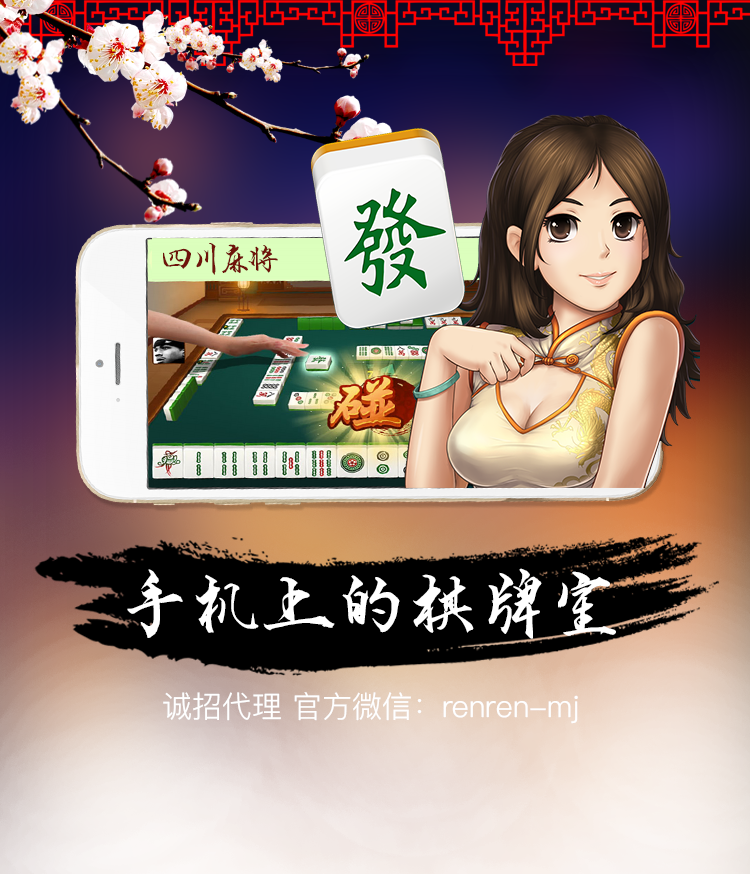
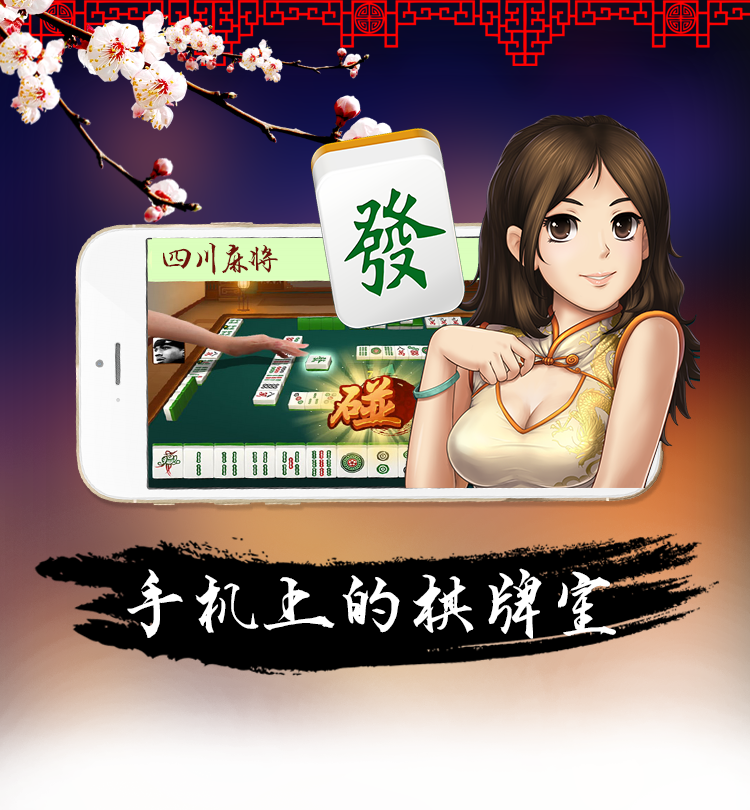
init

diff --git a/frontend/web/css/game_css.css b/frontend/web/css/game_css.css
@@ -3,9 +3,10 @@
 *{ padding:o; margin:0 auto; background:#5d130a}
 #contents{ width:100%;}
 p{ background:none;}
+.banner{ position: relative}
 .banner img{ width:100%;}
 .icon_ma{ width:90%; text-align:center;}
-.icon{ width:50%; float:left; margin-top:10px;}
+.icon{ width:50%; margin-top:10px;}
 .icon img{ width:100%}
 .icon .iphone{ display:block; padding-top:20px;}
 .erweima{ width:45%; float:right}
@@ -15,4 +16,13 @@ p{ background:none;}
 #tip p{ padding:0 20% 0 5%; line-height:1.8em; margin-bottom:1em;}
 #tip p:first-child{ padding-top:5%;}
 #tip img{ position:absolute; top:5%; right:5%; background:none;}
+.text {
+    width: 100%;
+    text-align: center;
+    color: #fff;
+    font-size: 1.1em;
+    position: absolute;
+    top: 85%;
+    background: none;
+}
 

diff --git a/frontend/modules/Wechat/views/default/room_page.php b/frontend/modules/Wechat/views/default/room_page.php
@@ -9,7 +9,6 @@ $signPackage = JSSDK::getInstance( Yii::$app->params['AppId'], Yii::$app->params
     <meta charset="UTF-8">
     <meta name="viewport" content="width=device-width, initial-scale=1" />
     <title><?php echo $gInfo->title; ?></title>
-    <link rel="stylesheet" href="/css/game_css.css">
     <script type="text/javascript" src="/js/jquery-2.2.3.min.js"></script>
     <script  type="text/javascript" src="http://res.wx.qq.com/open/js/jweixin-1.2.0.js"></script>
 	<script type="text/javascript">
@@ -56,7 +55,7 @@ $signPackage = JSSDK::getInstance( Yii::$app->params['AppId'], Yii::$app->params
     wx.ready(function () {
     	// 分享到朋友圈
     	wx.onMenuShareTimeline({
-    	    title: '快和我来玩<?php echo $gInfo->title; ?> ！', // 分享标题
+    		title: '<?php echo $roomInfo['Title'];?>', // 分享标题
     	    link: document.location.href, // 分享链接，该链接域名或路径必须与当前页面对应的公众号JS安全域名一致
     	    imgUrl: '<?php echo Yii::$app->urlManager->createAbsoluteUrl('/images/mj_wx_logo.png'); ?>', // 分享图标
     	    success: function () { 
@@ -70,8 +69,8 @@ $signPackage = JSSDK::getInstance( Yii::$app->params['AppId'], Yii::$app->params
 
     	// 分享给朋友
     	wx.onMenuShareAppMessage({
-    		title: '快和我来玩<?php echo $gInfo->title; ?> ！', // 分享标题
-    	    desc: '我玩很久了，值得推荐给你，一起来玩吧~', // 分享描述
+    		title: '<?php echo $roomInfo['Title'];?>', // 分享标题
+    	    desc: '<?php echo $roomInfo['Desc'];?>', // 分享描述
     	    link: document.location.href, // 分享链接，该链接域名或路径必须与当前页面对应的公众号JS安全域名一致
     	    imgUrl: '<?php echo Yii::$app->urlManager->createAbsoluteUrl('/images/mj_wx_logo.png'); ?>', // 分享图标
     	    success: function () { 
@@ -87,24 +86,63 @@ $signPackage = JSSDK::getInstance( Yii::$app->params['AppId'], Yii::$app->params
 </head>
 
 <body>
-<div id="contents">
-	<div class="banner"><img src="/images/banner.png"></div>
-  <div class="icon_ma">
-    	<div class="icon">
-        	<a class="android" href="<?php echo $gInfo->android_url; ?>" ><img src="/images/android_icon.png"></a>
-            <a class="iphone" href="<?php echo $gInfo->ios_url; ?>" id="JdownApp" ><img src="/images/iphone_icon.png"></a>
-      </div>
-        <div class="erweima">
-        	<img src="/images/erweima.png?aa">
-        </div>
+<div id="con">
+	<div class="bg">
+    	<img src="/images/bg.jpg">
     </div>
-    <div id="tip">
-			<p>如果没有自动跳转，可能是微信限制了第三方应用的跳转。</p>
-			<p>1. 点击右上角的…</p>
-			<p>2. 选择在浏览器中打开</p>
-			<img src="/images/arrow.png">
-		</div>
+	<div class="room">
+      <div class="xinxi">
+        	<div class="person">
+            	<img src="<?php echo $uInfo->user_logo;?>">
+            	<div class="about">
+            	    <p class="name">昵称：<?php echo $uInfo->nickname;?></p>
+            	    <p class="numb">房间号：<?php echo $roomInfo['Room_id'];?></p>
+            	    <p class="tip">提示：长按可复制房间号</p>
+            	</div>
+            </div>
+               <div style="clear:both; height:0;"></div>
+               <div class="org_box">
+                    <span class="org_bot_cor"></span>
+                    <?php echo $roomInfo['Desc'];?>   
+               </div>
+            </div>
+        <img class="fj_bg" src="/images/fj_bg.png">
+    </div>
+    <div class="xc_pic">
+    	<img src="/images/pic.png">
+    </div>
+    <div class="btn">
+    	<a href="#">
+        	<img src="/images/btn.png">
+        </a>
+    </div>
 </div>
 </body>
-
+    <style type="text/css">
+    *{ padding:0; margin:0 auto;}
+	.bg{ width:100%; position:absolute; top:0; left:0; z-index:-9999}
+	.bg img{ width:100%;}
+	
+	.room{ width:100%; position:relative;top: -10px;}
+	.xc_pic{ width:100%; margin-top: -10px;}
+	.room img,.xc_pic img{ width:100%;}
+	.room .fj_bg{ position:relative; display:block}
+	.room .xinxi{ position:absolute; z-index:111111; top: 48%; left: 17%; width: 66%;}
+    .room .person{ width: 100%;}
+	.room .person img{ width: 25%; padding: 3px; background: #ffffff; border: 2px solid #acacac; float: left; }
+	
+    .about{ float: left; margin-left: 2%; width: 65%}
+    .about .name{ font-size: 1.1em;}
+    .about .numb {letter-spacing: 1px; font-size: 1.1em; color: #fff; padding: 3px 0 3px 3px; width: 100%; background: #cb8c6e; border-radius: 12px; margin: 1px 0;}
+    .about .tip{ font-size: 0.8em;}
+	.btn{ text-align:center; margin-top: 10px;}
+	.btn img{ width:60%;}
+	.btn a img { border:none;}
+        
+        
+    .org_box{font-size: .9em;padding-left: 2%;width: 95%;height:60px;padding-top: 2%;background:#fff; position:relative; border-radius: 8px;margin-top: 4%;}
+    .org_bot_cor{width:0; height:0; font-size:0; border-width:12px; border-style:solid; border-color:transparent transparent #fff transparent; _border-color:transparent transparent #fff transparent;  overflow:hidden; position:absolute; left:20px; top:-22px;
+   
+}
+    </style>
 </html>

diff --git a/frontend/modules/Wechat/controllers/DefaultController.php b/frontend/modules/Wechat/controllers/DefaultController.php
@@ -168,22 +168,36 @@ class DefaultController extends Controller
     
     /**
      * 游戏房间分享页面
-     * @return string
-     */
-    public function actionRoomPage()
-    {
-/*         echo json_encode([
+     * 1、若分享者信息不存在。显示游戏下载页面
+     * 2、若点击分享页面用户没有关注公众号，跳转到分享用户专属链接页
+     * 3、若1、2都不满足，则显示房间信息页
+       echo json_encode([
             'Room_id'=>12121,
             'Title'=>'人人麻将：房间号[756 433] ',
             'Desc'=>'4局、3番封顶,1底分 赶快来！',
             'Time'=>1503364468
-        ],JSON_UNESCAPED_UNICODE);die(); */
-        //var_dump(json_decode( $_GET['data'] ,true));die();
+        ],JSON_UNESCAPED_UNICODE);die(); 
+     * @return string
+     */
+    public function actionRoomPage()
+    {
+        $uObj = MgUsers::findOne(['union_id'=>yii::$app->request->get('union_id')]);
+        if( !$uObj ){
+            return $this->redirect(['/Wechat/default/share-page','id'=>yii::$app->params['DEFAULT_USER']]);
+        }
+        $viewUser = MgUsers::findOne(['open_id'=>$this->open_id]);
+        if( !$viewUser ){
+            return $this->redirect(['/Wechat/default/share-page','id'=>$uObj->id]);
+        }
         $gObj = MgGames::findOne(['id'=>yii::$app->request->get('id', 1)]);
         if( !$gObj )
             die('信息错误');
+        
+        $roomInfo = json_decode( yii::$app->request->get('data') ,true );
         return $this->renderPartial('room_page',[
-            'gInfo'=> $gObj
+            'gInfo'=> $gObj,
+            'uInfo'=> $uObj,
+            'roomInfo'=> $roomInfo
         ]);
     }
     

diff --git a/frontend/modules/Wechat/views/default/game_page.php b/frontend/modules/Wechat/views/default/game_page.php
@@ -87,16 +87,18 @@ $signPackage = JSSDK::getInstance( Yii::$app->params['AppId'], Yii::$app->params
 </head>
 
 <body>
+
 <div id="contents">
-	<div class="banner"><img src="/images/banner.png"></div>
+	<div class="banner">
+	    <img src="/images/banner.png">
+	    <div class="text">诚招代理 官方微信：renren-mj</div>
+	</div>
+	
   <div class="icon_ma">
     	<div class="icon">
         	<a class="android" href="<?php echo $gInfo->android_url; ?>" ><img src="/images/android_icon.png"></a>
             <a class="iphone" href="<?php echo $gInfo->ios_url; ?>" id="JdownApp" ><img src="/images/iphone_icon.png"></a>
-      </div>
-        <div class="erweima">
-        	<img src="/images/erweima.png?aa">
-        </div>
+         </div>
     </div>
     <div id="tip">
 			<p>如果没有自动跳转，可能是微信限制了第三方应用的跳转。</p>

diff --git a/environments/dev/common/config/params-local.php b/environments/dev/common/config/params-local.php
@@ -12,6 +12,8 @@ return [
     'AppSecret'=>'4be0b3d8ff64babcb1559c6f091e092b',
     'MCHID' =>'1483656542', 
     
+    'DEFAULT_USER'=>94, //默认最终用户ID
+    
     //游戏地址
     'GAME_URL'=>'http://183.61.243.96:9321',
     'CERT_PATH' => 'D:/WWW/cert',
